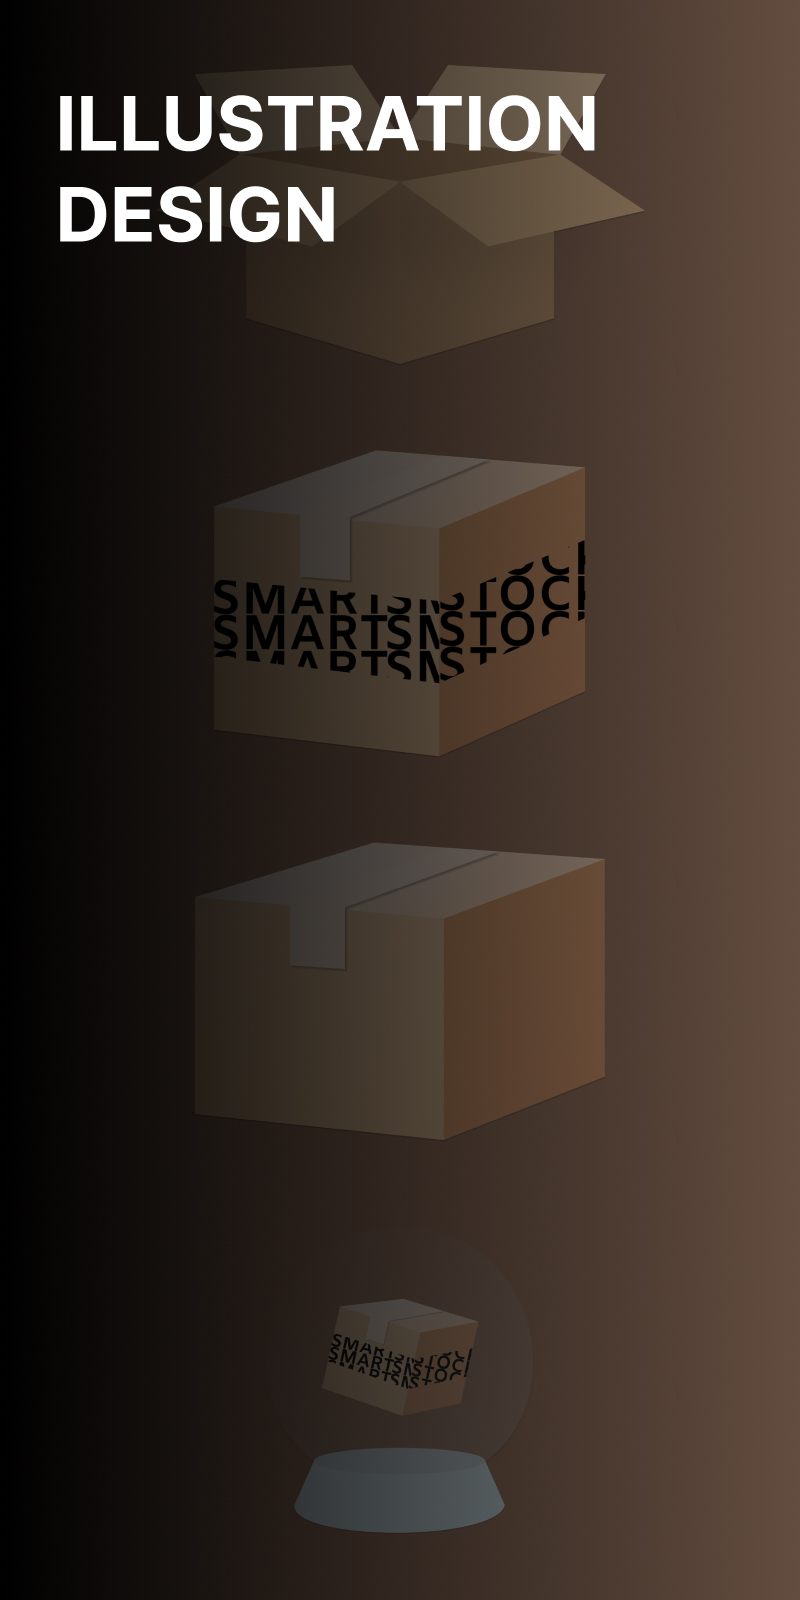
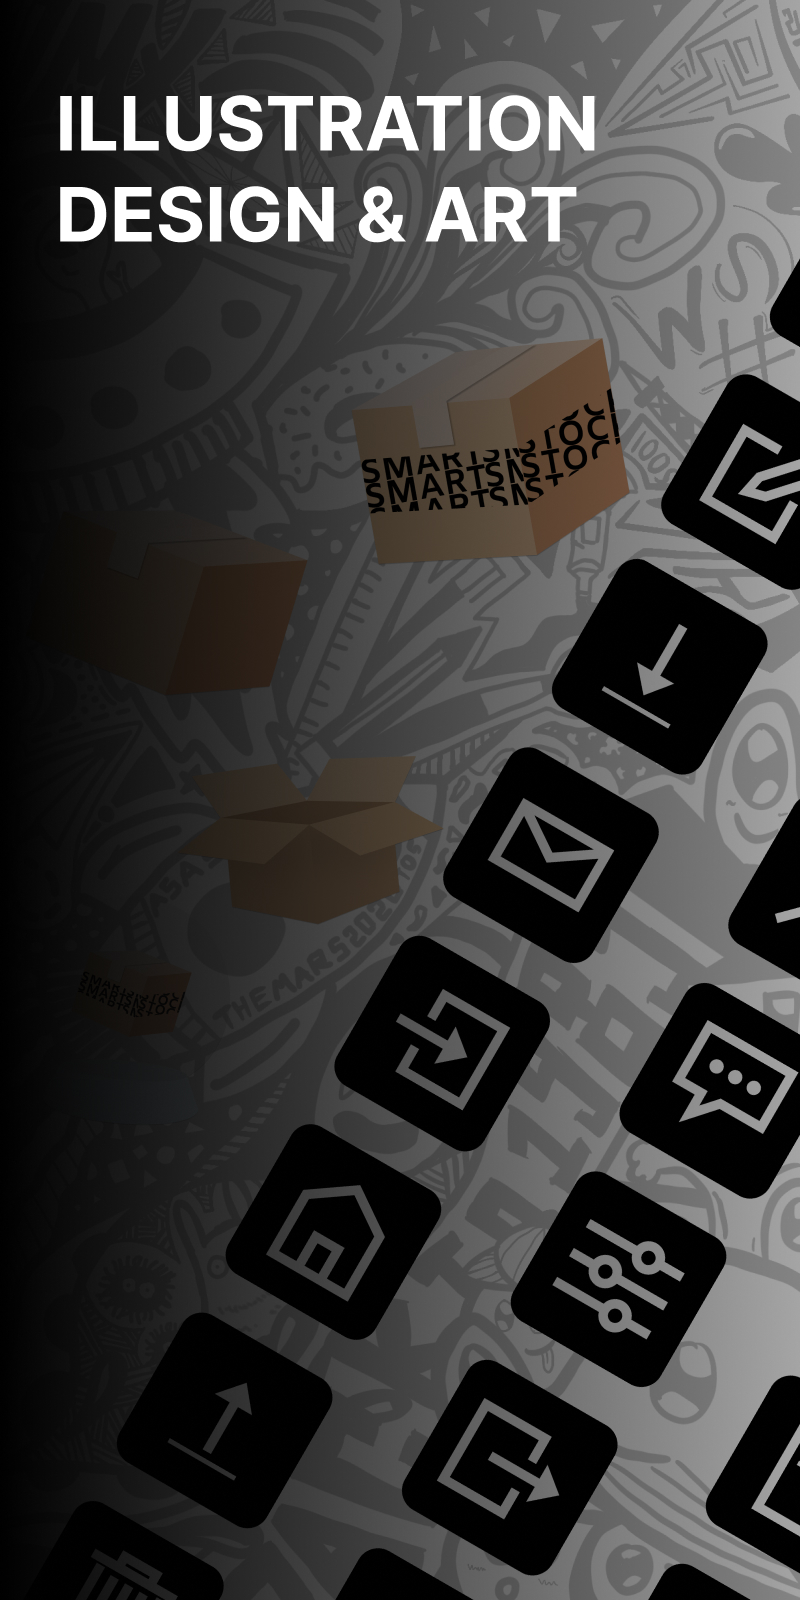
New 28/10/2023 : 15.23

diff --git a/fastwork.html b/fastwork.html
@@ -95,13 +95,20 @@
 
 								  <hr />
 
-								  <h3 id="illustrationdesign">Illustration Design</h3>
+								  <h3 id="illustrationdesign">Illustration Design & Art</h3>
 								  <div class="row">
 									<div class="column">
 										<img width="25%" src="images/box1.png">
 										<img width="20%" src="images/box2.png">&nbsp;&nbsp;&nbsp;&nbsp;
 										<img width="14%" src="images/box3.png">&nbsp;&nbsp;&nbsp;&nbsp;
 										<img width="18%" src="images/box4.png">
+										<br/><br/>
+										<img width="41%" src="images/Art2.jpg">
+										<img width="20%" src="images/Art1.jpg">
+										<br/><br/>
+										<img width="32.5%" src="images/icon1.jpg">
+										<img width="32.5%" src="images/icon2.jpg">
+										<img width="32.5%" src="images/icon3.jpg">
 									</div>
 								  </div>
 							</div>
